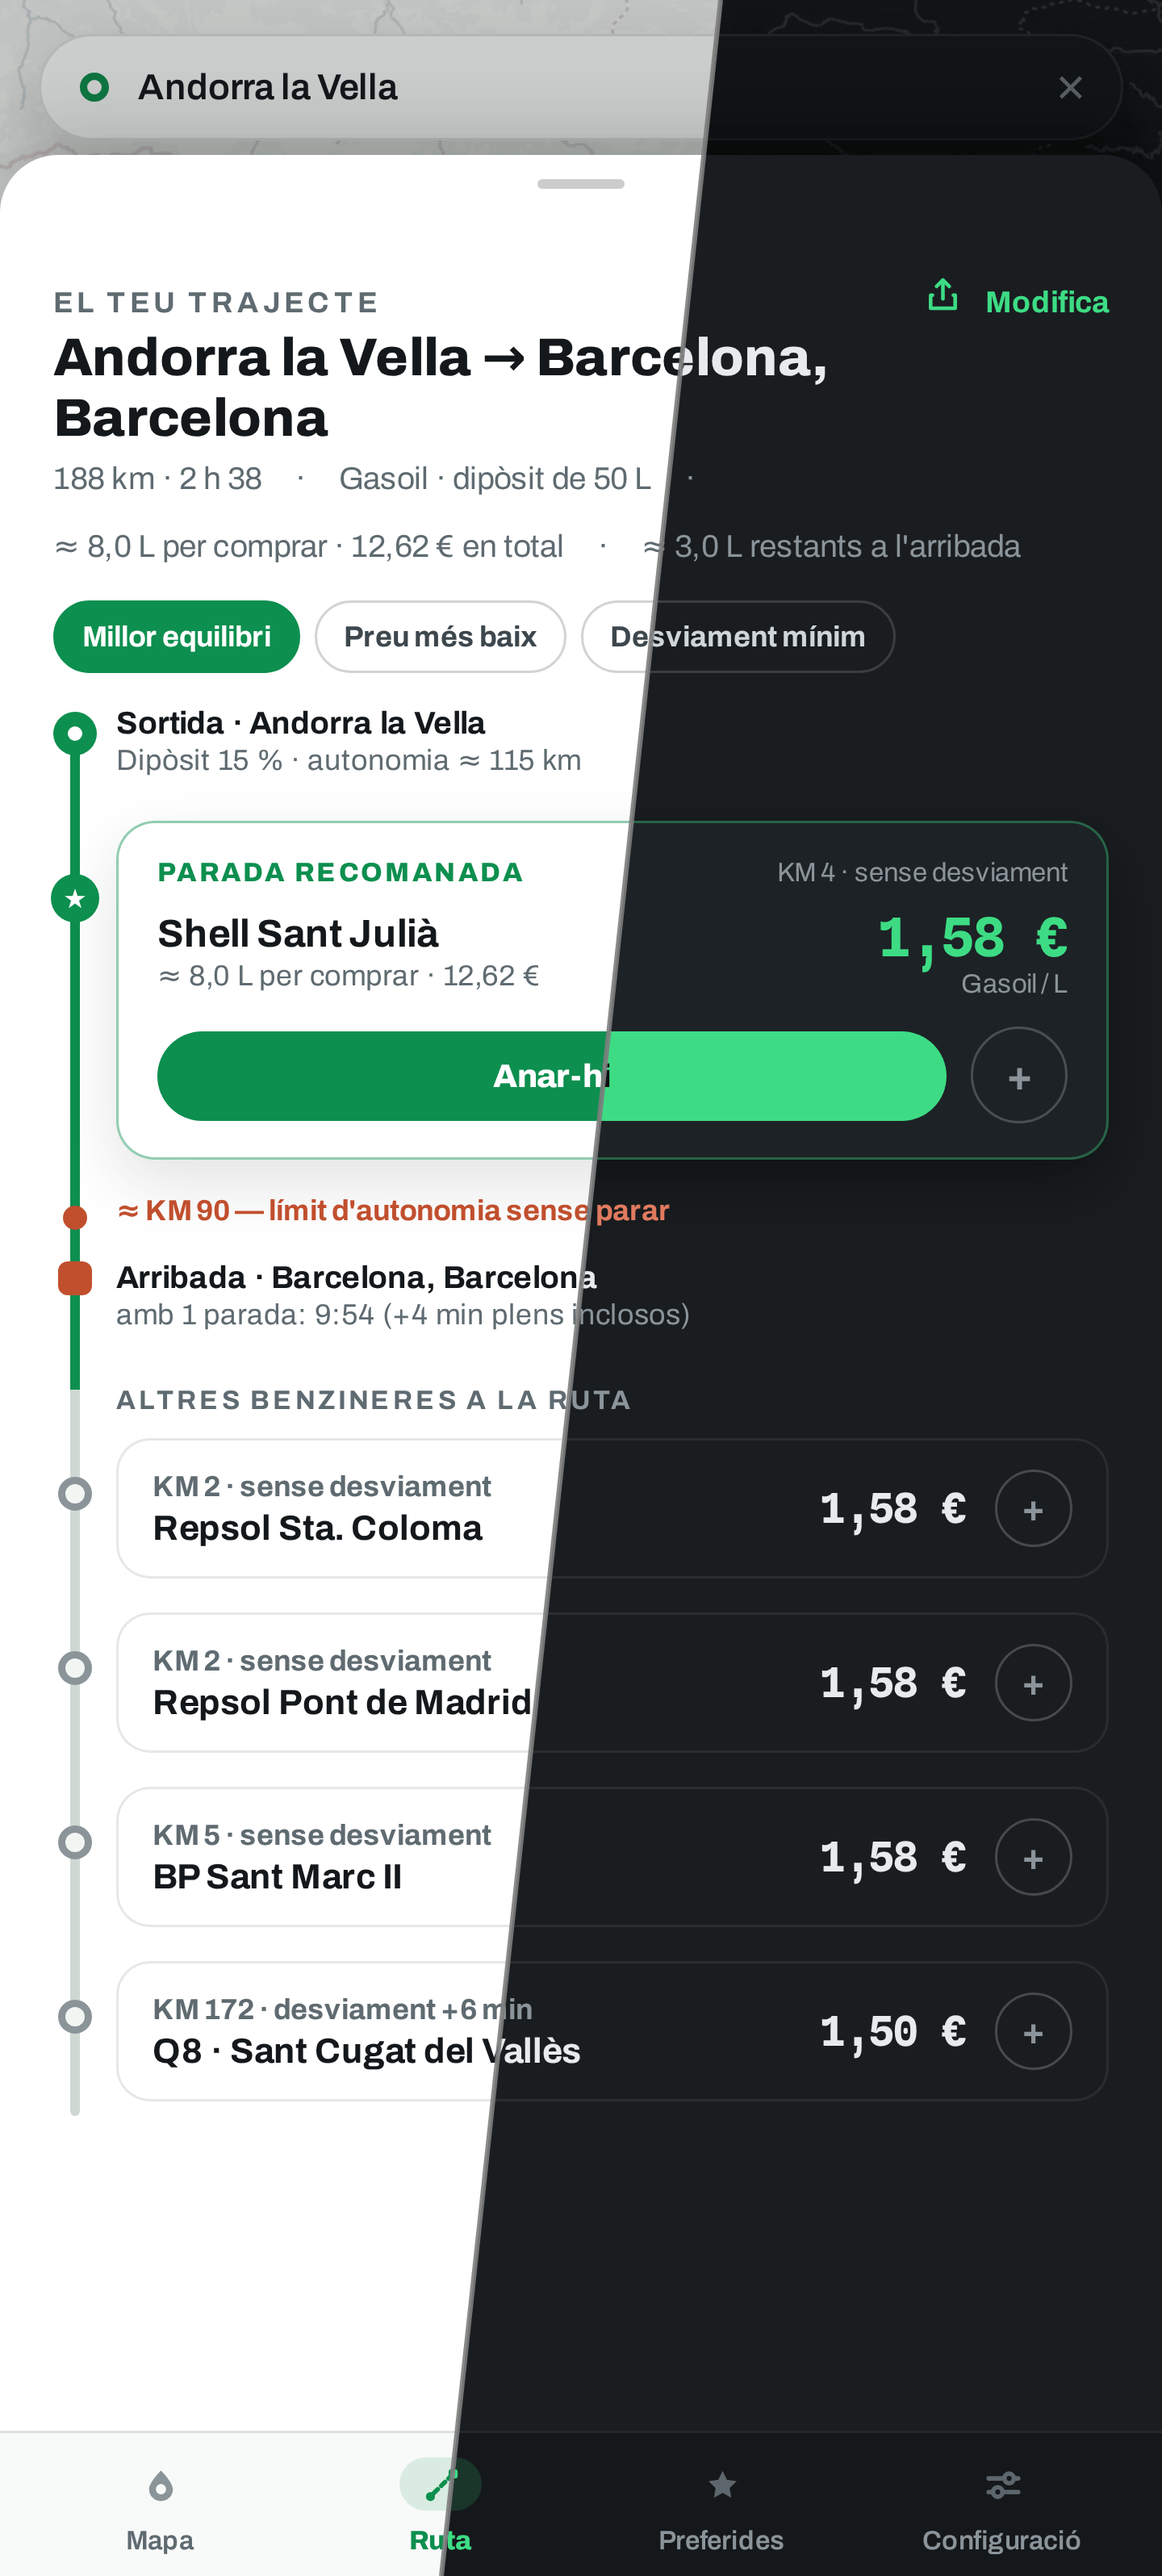
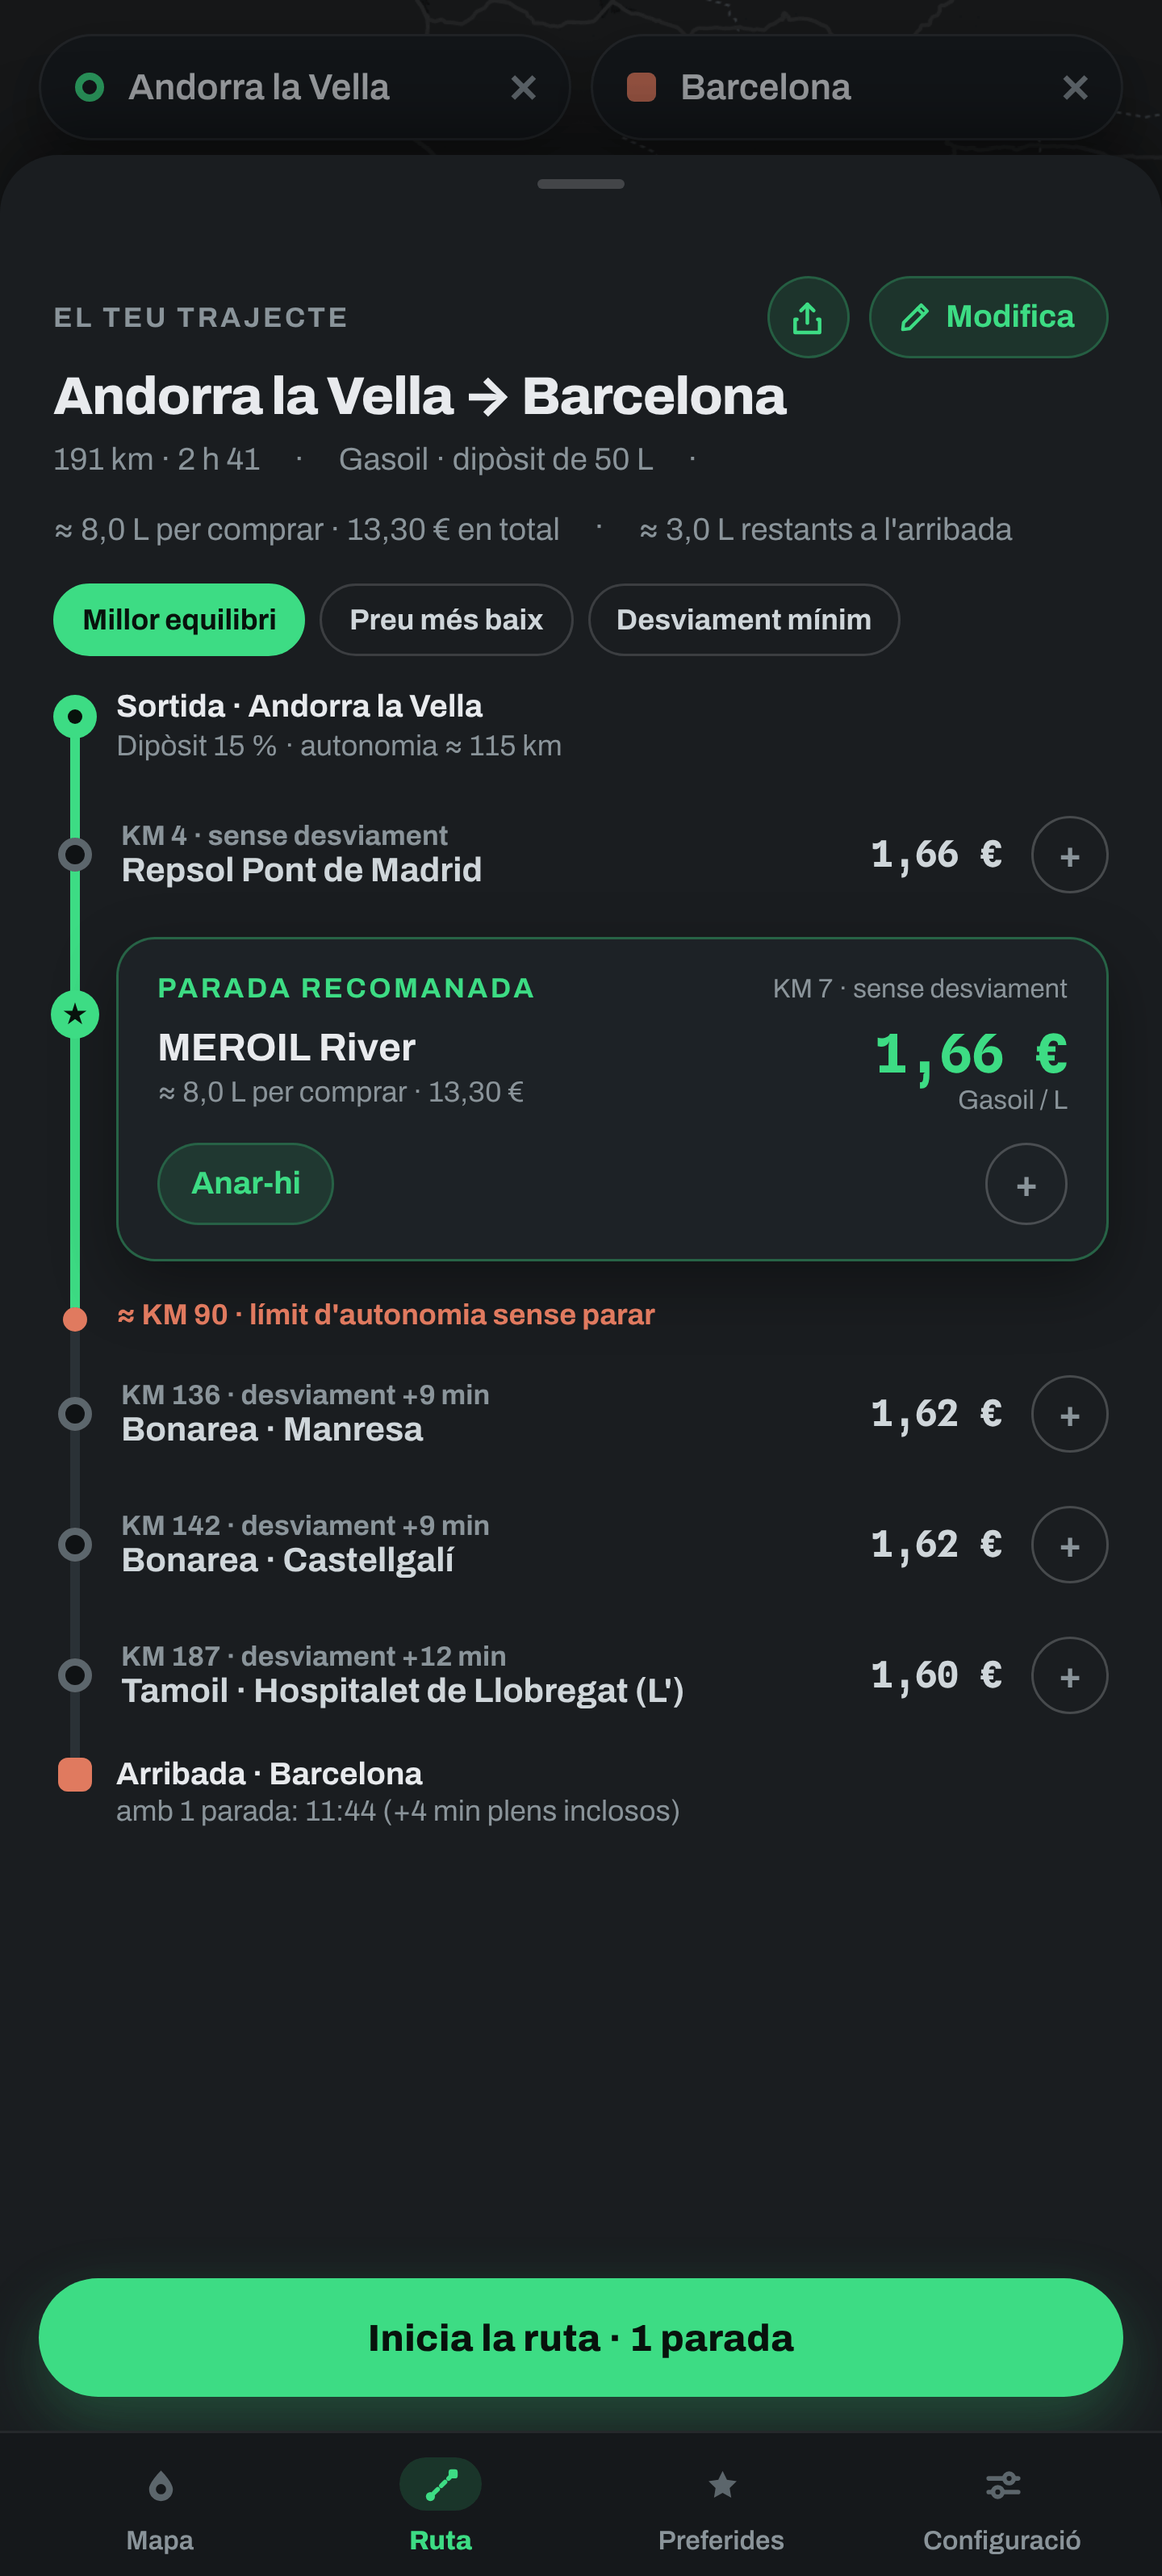
Rebuild the README screenshots and add the route on the map (#293)
* Rebuild the README screenshots (English, in progress)

Claude-Session: https://claude.ai/code/session_01AukWJGvAfRgfy3cP5LP3AJ

* Rebuild the README screenshots (English route, French set)

Claude-Session: https://claude.ai/code/session_01AukWJGvAfRgfy3cP5LP3AJ

* Add a trip screenshot: the route drawn on the map

The route screenshot expands the sheet over the whole map to show the fuel-stop timeline, so the itinerary itself never appeared in the READMEs. The screenshot script now shoots the computed trip twice: `trip`, the route and its priced stops on the map under the collapsed sheet, then `route`, the expanded timeline as before. All five READMEs gain the fourth column, with the images narrowed from 250 to 200 so the four fit abreast.

Claude-Session: https://claude.ai/code/session_01AukWJGvAfRgfy3cP5LP3AJ

* Rebuild the Spanish map screenshot

Claude-Session: https://claude.ai/code/session_01AukWJGvAfRgfy3cP5LP3AJ

* Rebuild the Spanish route screenshot

Claude-Session: https://claude.ai/code/session_01AukWJGvAfRgfy3cP5LP3AJ

* Rebuild the Catalan map screenshot

Claude-Session: https://claude.ai/code/session_01AukWJGvAfRgfy3cP5LP3AJ

* Rebuild the Catalan station screenshot

Claude-Session: https://claude.ai/code/session_01AukWJGvAfRgfy3cP5LP3AJ

* Rebuild the Catalan route screenshot

Claude-Session: https://claude.ai/code/session_01AukWJGvAfRgfy3cP5LP3AJ

* Rebuild the Portuguese map screenshot
[…]

diff --git a/README.ca.md b/README.ca.md
@@ -23,9 +23,13 @@ Voleu veure què ve? [staging-plein.zadkiel.workers.dev](https://staging-plein.z
 
 <br/>
 
-| Els preus al vostre voltant | La fitxa d'una estació | Al vostre trajecte |
-| :---: | :---: | :---: |
-| <img src="docs/screenshots/ca/map.png" width="250" alt="Mapa de preus al voltant d'Andorra la Vella" /> | <img src="docs/screenshots/ca/station.png" width="250" alt="Fitxa d'una estació: preu per combustible, diferència amb la més barata, serveis i estalvi en un dipòsit" /> | <img src="docs/screenshots/ca/route.png" width="250" alt="Comparació d'estacions en un trajecte Andorra la Vella → Barcelona" /> |
+<p align="center">
+  <img src="docs/screenshots/ca/map.png" width="23%" alt="Mapa de preus al voltant d'Andorra la Vella" title="Els preus al vostre voltant" />
+  <img src="docs/screenshots/ca/station.png" width="23%" alt="Fitxa d'una estació: preu per combustible, diferència amb la més barata, serveis i estalvi en un dipòsit" title="La fitxa d'una estació" />
+  <img src="docs/screenshots/ca/trip.png" width="23%" alt="Trajecte Andorra la Vella → Barcelona al mapa, amb les estacions i els seus preus al llarg del recorregut" title="El vostre trajecte al mapa" />
+  <img src="docs/screenshots/ca/route.png" width="23%" alt="Comparació d'estacions en un trajecte Andorra la Vella → Barcelona" title="Al vostre trajecte" />
+</p>
+<p align="center"><sub>Captures en tema fosc. També hi ha un tema clar, i el color d’accent es tria a Configuració › Aparença.</sub></p>
 
 </div>
 

diff --git a/README.fr.md b/README.fr.md
@@ -23,9 +23,13 @@ Envie de voir la suite ? [staging-plein.zadkiel.workers.dev](https://staging-ple
 
 <br/>
 
-| Les prix autour de vous | La fiche d'une station | Sur votre trajet |
-| :---: | :---: | :---: |
-| <img src="docs/screenshots/fr/map.png" width="250" alt="Carte des prix autour de Toulouse" /> | <img src="docs/screenshots/fr/station.png" width="250" alt="Fiche d'une station : prix par carburant, écart au moins cher, services et économie sur un plein" /> | <img src="docs/screenshots/fr/route.png" width="250" alt="Comparaison des stations sur un trajet Toulouse → Lille" /> |
+<p align="center">
+  <img src="docs/screenshots/fr/map.png" width="23%" alt="Carte des prix autour de Toulouse" title="Les prix autour de vous" />
+  <img src="docs/screenshots/fr/station.png" width="23%" alt="Fiche d'une station : prix par carburant, écart au moins cher, services et économie sur un plein" title="La fiche d'une station" />
+  <img src="docs/screenshots/fr/trip.png" width="23%" alt="Itinéraire Toulouse → Lille sur la carte, avec les stations et leurs prix le long du trajet" title="Votre itinéraire sur la carte" />
+  <img src="docs/screenshots/fr/route.png" width="23%" alt="Comparaison des stations sur un trajet Toulouse → Lille" title="Sur votre trajet" />
+</p>
+<p align="center"><sub>Captures en thème sombre. Il existe aussi un thème clair, et la couleur d’accent se choisit dans Réglages › Apparence.</sub></p>
 
 </div>
 

diff --git a/README.pt.md b/README.pt.md
@@ -23,9 +23,13 @@ Quer ver o que vem a seguir? [staging-plein.zadkiel.workers.dev](https://staging
 
 <br/>
 
-| Os preços à sua volta | A ficha de um posto | No seu trajeto |
-| :---: | :---: | :---: |
-| <img src="docs/screenshots/pt/map.png" width="250" alt="Mapa de preços à volta de Lisboa" /> | <img src="docs/screenshots/pt/station.png" width="250" alt="Ficha de um posto: preço por combustível, diferença para o mais barato, serviços e poupança num depósito" /> | <img src="docs/screenshots/pt/route.png" width="250" alt="Comparação de postos num trajeto Lisboa → Porto" /> |
+<p align="center">
+  <img src="docs/screenshots/pt/map.png" width="23%" alt="Mapa de preços à volta de Lisboa" title="Os preços à sua volta" />
+  <img src="docs/screenshots/pt/station.png" width="23%" alt="Ficha de um posto: preço por combustível, diferença para o mais barato, serviços e poupança num depósito" title="A ficha de um posto" />
+  <img src="docs/screenshots/pt/trip.png" width="23%" alt="Trajeto Lisboa → Porto no mapa, com os postos e os seus preços ao longo do caminho" title="O seu trajeto no mapa" />
+  <img src="docs/screenshots/pt/route.png" width="23%" alt="Comparação de postos num trajeto Lisboa → Porto" title="No seu trajeto" />
+</p>
+<p align="center"><sub>Capturas no tema escuro. Também há um tema claro, e a cor de destaque escolhe-se em Definições › Aparência.</sub></p>
 
 </div>
 

diff --git a/README.es.md b/README.es.md
@@ -23,9 +23,13 @@ Portugal.
 
 <br/>
 
-| Los precios a tu alrededor | La ficha de una estación | En tu ruta |
-| :---: | :---: | :---: |
-| <img src="docs/screenshots/es/map.png" width="250" alt="Mapa de precios alrededor de Madrid" /> | <img src="docs/screenshots/es/station.png" width="250" alt="Ficha de una estación: precio por combustible, diferencia con la más barata, servicios y ahorro en un depósito" /> | <img src="docs/screenshots/es/route.png" width="250" alt="Comparación de estaciones en una ruta Madrid → Barcelona" /> |
+<p align="center">
+  <img src="docs/screenshots/es/map.png" width="23%" alt="Mapa de precios alrededor de Madrid" title="Los precios a tu alrededor" />
+  <img src="docs/screenshots/es/station.png" width="23%" alt="Ficha de una estación: precio por combustible, diferencia con la más barata, servicios y ahorro en un depósito" title="La ficha de una estación" />
+  <img src="docs/screenshots/es/trip.png" width="23%" alt="Ruta Madrid → Barcelona en el mapa, con las estaciones y sus precios a lo largo del trayecto" title="Tu ruta en el mapa" />
+  <img src="docs/screenshots/es/route.png" width="23%" alt="Comparación de estaciones en una ruta Madrid → Barcelona" title="En tu ruta" />
+</p>
+<p align="center"><sub>Capturas en tema oscuro. También hay un tema claro, y el color de acento se elige en Ajustes › Apariencia.</sub></p>
 
 </div>
 

diff --git a/README.md b/README.md
@@ -22,9 +22,13 @@ Want what is coming next? [staging-plein.zadkiel.workers.dev](https://staging-pl
 
 <br/>
 
-| Prices around you | A station's page | Along your route |
-| :---: | :---: | :---: |
-| <img src="docs/screenshots/en/map.png" width="250" alt="Price map around Toulouse" /> | <img src="docs/screenshots/en/station.png" width="250" alt="A station's page: price per fuel, gap to the cheapest, services and savings on a full tank" /> | <img src="docs/screenshots/en/route.png" width="250" alt="Station comparison on a Toulouse → Lille route" /> |
+<p align="center">
+  <img src="docs/screenshots/en/map.png" width="23%" alt="Price map around Toulouse" title="Prices around you" />
+  <img src="docs/screenshots/en/station.png" width="23%" alt="A station's page: price per fuel, gap to the cheapest, services and savings on a full tank" title="A station's page" />
+  <img src="docs/screenshots/en/trip.png" width="23%" alt="Toulouse → Lille route on the map, with the priced stations along it" title="Your route on the map" />
+  <img src="docs/screenshots/en/route.png" width="23%" alt="Station comparison on a Toulouse → Lille route" title="Along your route" />
+</p>
+<p align="center"><sub>Shown in the dark theme. There is a light theme too, and the accent color is yours to pick in Settings › Appearance.</sub></p>
 
 </div>
 

diff --git a/CLAUDE.md b/CLAUDE.md
@@ -60,8 +60,9 @@ it lives only in `messages/fr.json`.
   words: each version reads natively and uses that language's own UI names
   (its `messages/<locale>.json` copy) when it points at a screen or button.
   Screenshots are per-locale too: `npm run build:screenshots` shoots every
-  locale's set into `docs/screenshots/<locale>/`, each image a diagonal
-  light/dark split, and reads its selector strings from the catalogs.
+  locale's set into `docs/screenshots/<locale>/`, all in the dark theme (a
+  line under them names the light theme and the accent colors), and reads
+  its selector strings from the catalogs.
 
 ## Internationalization
 
